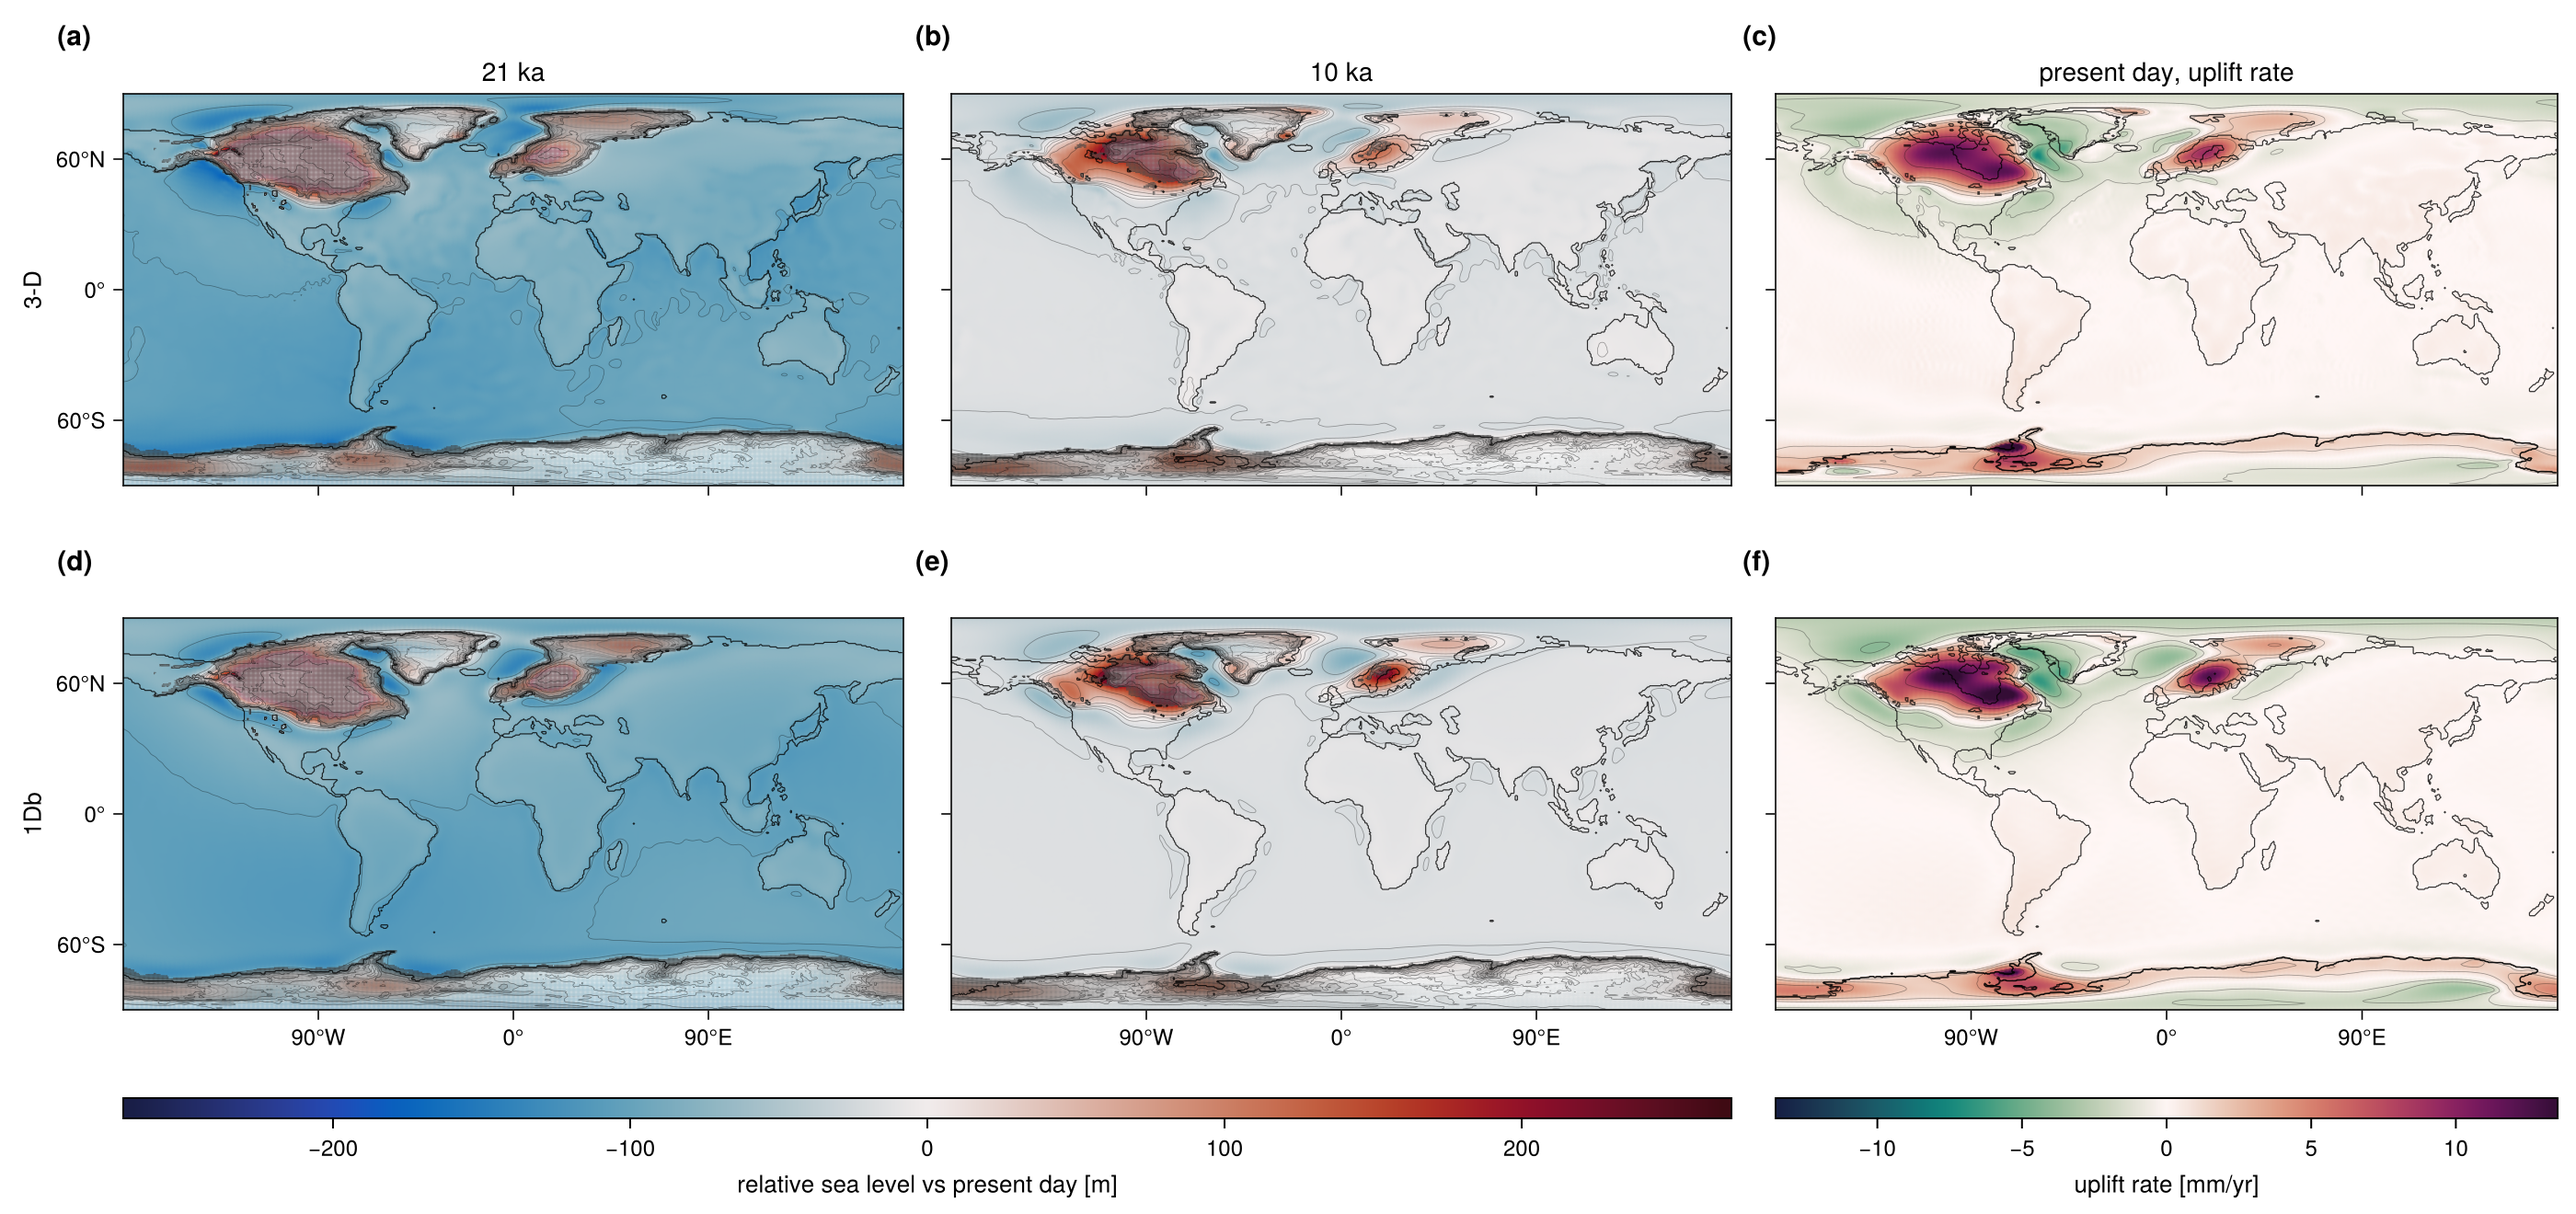
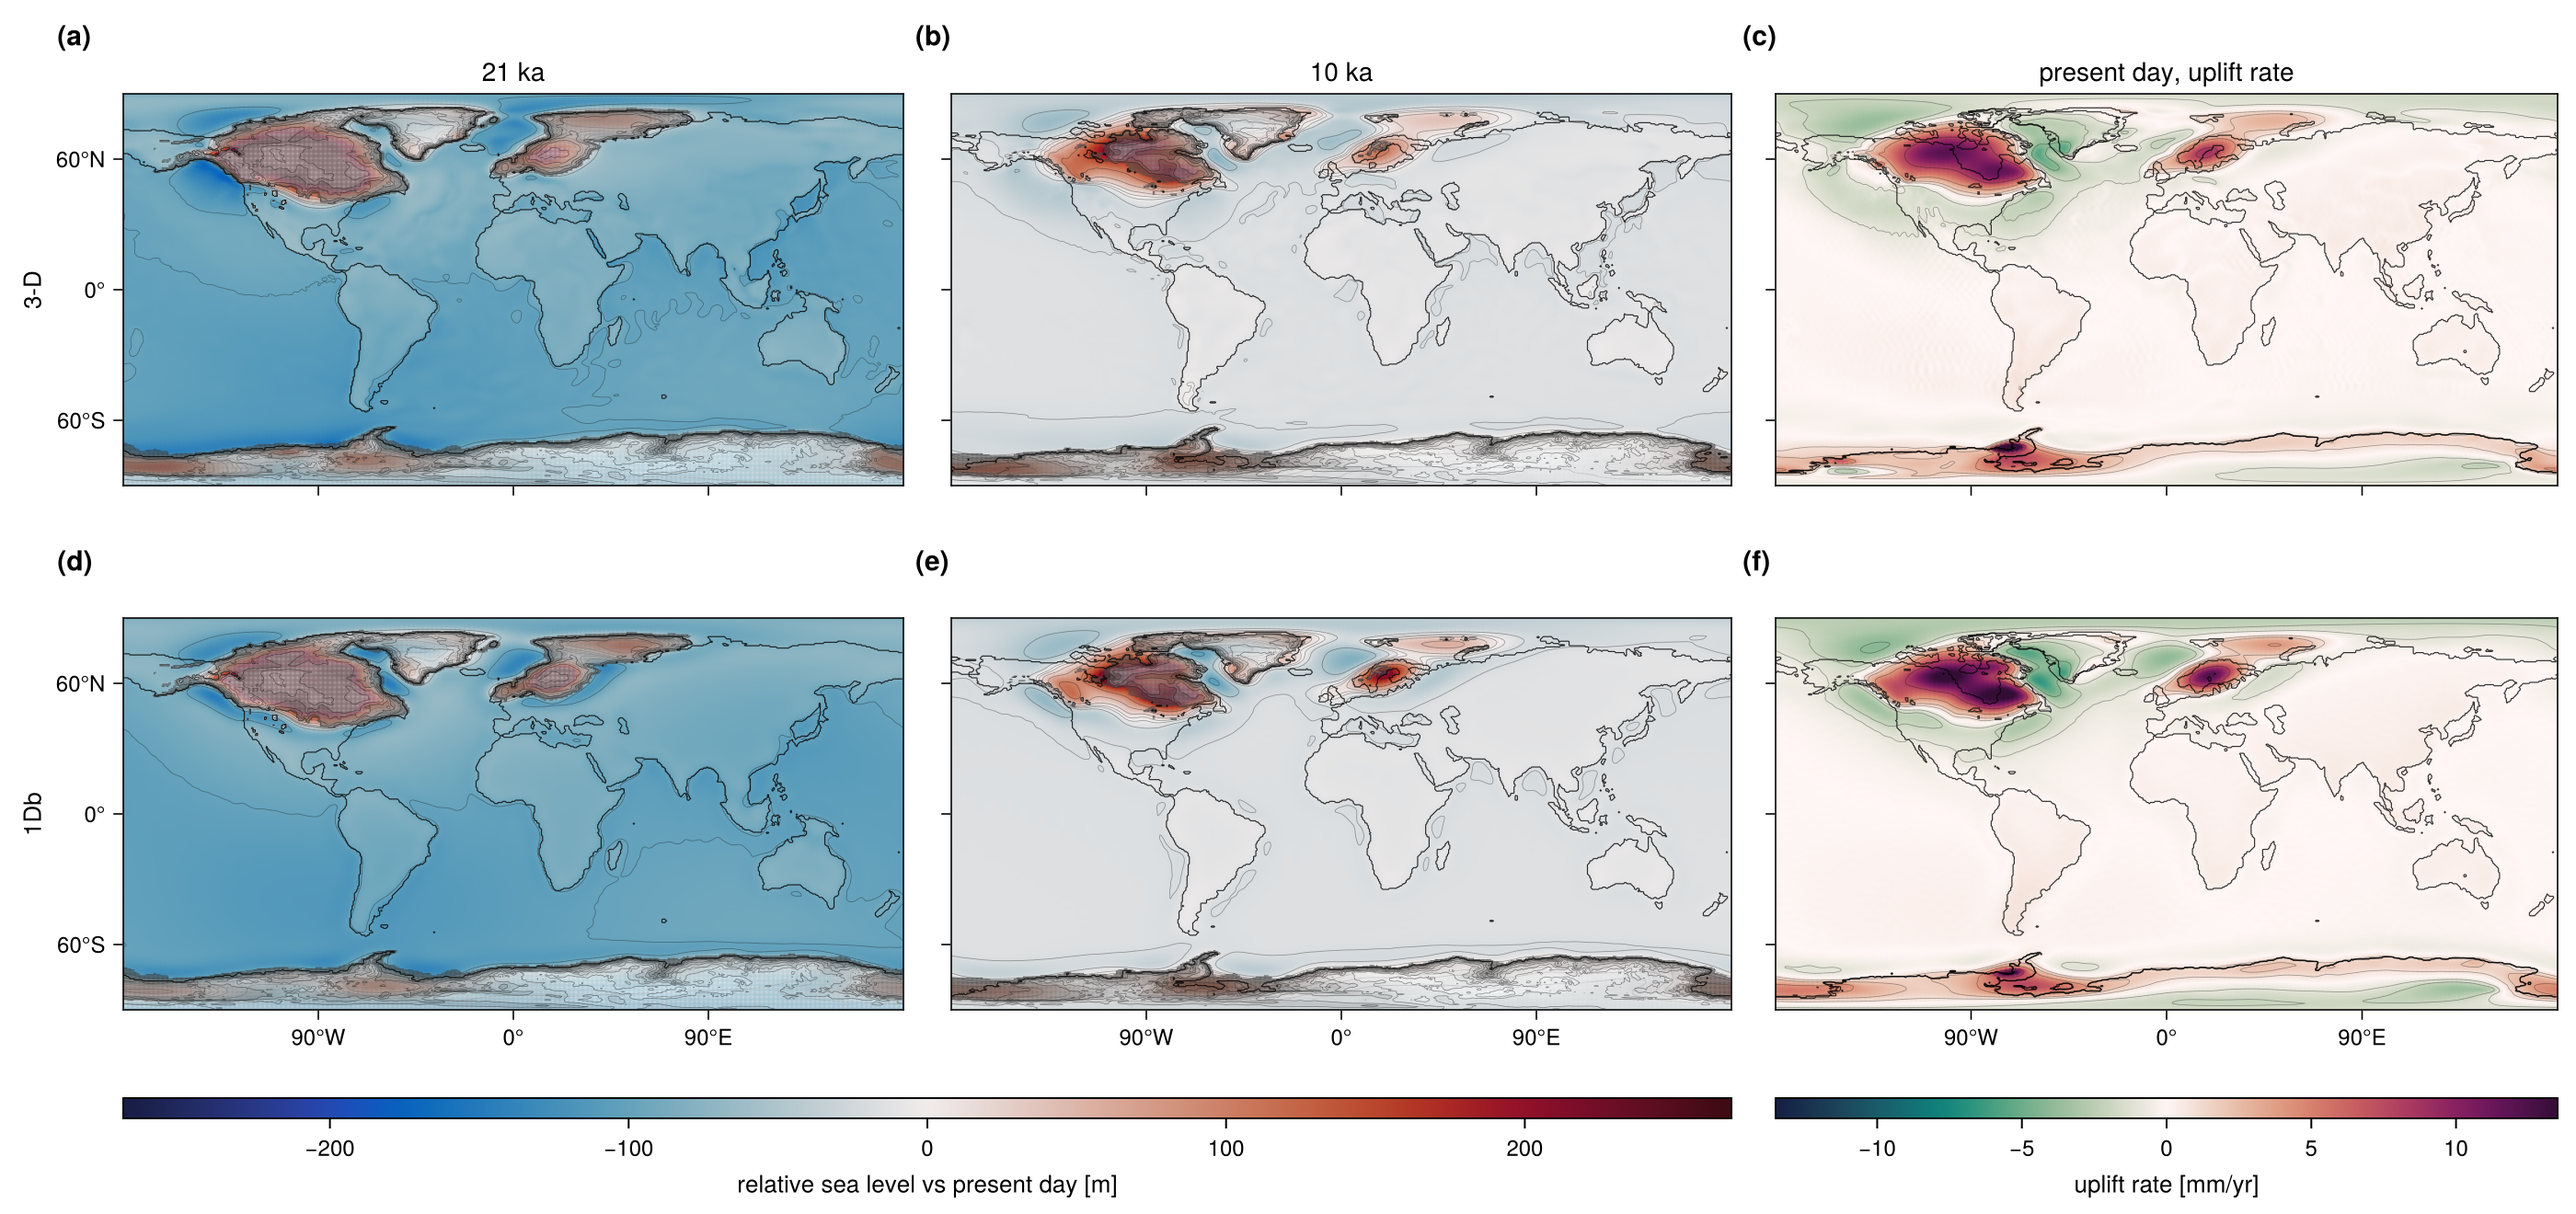
validation: tables and figures with V7 as the production 3-D row (reduce + analyse 48967618); RESULTS.md, stale results.toml keys dropped, figure notes no longer describe the retired Y21 pattern

diff --git a/validation/tables/v2v1.md b/validation/tables/v2v1.md
@@ -11,26 +11,26 @@ Both backends run behind the same driver on the same GLAC-1D forcing and the sam
 
 | time | rms [m] | max\|Δ\| [m] | 99th pct [m] | V2 signal max [m] | rms/signal | deg 0 [m] | \|deg 1\| [m] | rms after deg 0+1 |
 |---|---:|---:|---:|---:|---:|---:|---:|---:|
-| 21 ka | 5.138 | 87.664 | 18.016 | 463.3 | 1.11e-02 | 0.50 | 0.36 | 5.120 |
-| 14 ka | 4.618 | 91.394 | 16.772 | 427.4 | 1.08e-02 | 0.52 | 0.30 | 4.593 |
-| 8 ka | 2.131 | 32.929 | 8.019 | 185.0 | 1.15e-02 | 0.23 | 0.18 | 2.122 |
-| 2 ka | 0.382 | 6.012 | 1.494 | 45.8 | 8.35e-03 | 0.03 | 0.04 | 0.382 |
+| 21 ka | 2.597 | 59.962 | 6.625 | 431.9 | 6.01e-03 | 0.12 | 0.30 | 2.607 |
+| 14 ka | 2.251 | 56.244 | 5.769 | 400.0 | 5.63e-03 | 0.24 | 0.25 | 2.247 |
+| 8 ka | 1.028 | 16.345 | 3.004 | 178.6 | 5.75e-03 | 0.13 | 0.15 | 1.021 |
+| 2 ka | 0.171 | 2.691 | 0.577 | 43.8 | 3.89e-03 | 0.02 | 0.03 | 0.169 |
 
-**Present-day uplift rate**: rms **0.1832 mm/yr**, max **2.7464**, 99th pct **0.7140**, against a V2 signal max of 38.36 mm/yr (rms/signal 4.78e-03).
+**Present-day uplift rate**: rms **0.0956 mm/yr**, max **3.1933**, 99th pct **0.2961**, against a V2 signal max of 36.78 mm/yr (rms/signal 2.60e-03).
 
-**Barystatic sea level**: max \|V2 − V1\| = **0.367 m**; at present day 0.349 m.
+**Barystatic sea level**: max \|V2 − V1\| = **0.298 m**; at present day 0.292 m.
 
-**Ocean-mean rsl at present day**: V2 96.90 m, V1 96.55 m, difference 0.35 m.
+**Ocean-mean rsl at present day**: V2 96.84 m, V1 96.55 m, difference 0.29 m.
 
-**Peak of the residual series** (`deglac-v2v1-summary.png`, every 1 kyr): rms 5.29 m at 23 ka; rms/signal at most 1.4 % (6 ka).
+**Peak of the residual series** (`deglac-v2v1-summary.png`, every 1 kyr): rms 2.67 m at 23 ka; rms/signal at most 0.7 % (6 ka).
 
 | time | ocean-function cells differing | % of grid |
 |---|---:|---:|
-| 21 ka | 7 | 0.003 % |
-| 14 ka | 70 | 0.030 % |
-| 8 ka | 267 | 0.115 % |
-| 2 ka | 333 | 0.143 % |
-| 0 ka | 363 | 0.156 % |
+| 21 ka | 4 | 0.002 % |
+| 14 ka | 30 | 0.013 % |
+| 8 ka | 131 | 0.056 % |
+| 2 ka | 178 | 0.077 % |
+| 0 ka | 210 | 0.090 % |
 
 ## Pair `1db` — 1Db, the radial mean of that field
 
@@ -57,30 +57,30 @@ Both backends run behind the same driver on the same GLAC-1D forcing and the sam
 | 2 ka | 50 | 0.021 % |
 | 0 ka | 58 | 0.025 % |
 
-## Pair `3d_tor` — 3-D Bagge (2021) viscosity, with VILMA2's toroidal coupling
+## Pair `3d_notor` — 3-D Bagge (2021) viscosity, without VILMA2's toroidal coupling
 
 | time | rms [m] | max\|Δ\| [m] | 99th pct [m] | V2 signal max [m] | rms/signal | deg 0 [m] | \|deg 1\| [m] | rms after deg 0+1 |
 |---|---:|---:|---:|---:|---:|---:|---:|---:|
-| 21 ka | 2.597 | 59.962 | 6.625 | 431.9 | 6.01e-03 | 0.12 | 0.30 | 2.607 |
-| 14 ka | 2.251 | 56.244 | 5.769 | 400.0 | 5.63e-03 | 0.24 | 0.25 | 2.247 |
-| 8 ka | 1.028 | 16.345 | 3.004 | 178.6 | 5.75e-03 | 0.13 | 0.15 | 1.021 |
-| 2 ka | 0.171 | 2.691 | 0.577 | 43.8 | 3.89e-03 | 0.02 | 0.03 | 0.169 |
+| 21 ka | 5.138 | 87.664 | 18.016 | 463.3 | 1.11e-02 | 0.50 | 0.36 | 5.120 |
+| 14 ka | 4.618 | 91.394 | 16.772 | 427.4 | 1.08e-02 | 0.52 | 0.30 | 4.593 |
+| 8 ka | 2.131 | 32.929 | 8.019 | 185.0 | 1.15e-02 | 0.23 | 0.18 | 2.122 |
+| 2 ka | 0.382 | 6.012 | 1.494 | 45.8 | 8.35e-03 | 0.03 | 0.04 | 0.382 |
 
-**Present-day uplift rate**: rms **0.0956 mm/yr**, max **3.1933**, 99th pct **0.2961**, against a V2 signal max of 36.78 mm/yr (rms/signal 2.60e-03).
+**Present-day uplift rate**: rms **0.1832 mm/yr**, max **2.7464**, 99th pct **0.7140**, against a V2 signal max of 38.36 mm/yr (rms/signal 4.78e-03).
 
-**Barystatic sea level**: max \|V2 − V1\| = **0.298 m**; at present day 0.292 m.
+**Barystatic sea level**: max \|V2 − V1\| = **0.367 m**; at present day 0.349 m.
 
-**Ocean-mean rsl at present day**: V2 96.84 m, V1 96.55 m, difference 0.29 m.
+**Ocean-mean rsl at present day**: V2 96.90 m, V1 96.55 m, difference 0.35 m.
 
-**Peak of the residual series** (`deglac-v2v1-summary.png`, every 1 kyr): rms 2.67 m at 23 ka; rms/signal at most 0.7 % (6 ka).
+**Peak of the residual series** (`deglac-v2v1-summary.png`, every 1 kyr): rms 5.29 m at 23 ka; rms/signal at most 1.4 % (6 ka).
 
 | time | ocean-function cells differing | % of grid |
 |---|---:|---:|
-| 21 ka | 4 | 0.002 % |
-| 14 ka | 30 | 0.013 % |
-| 8 ka | 131 | 0.056 % |
-| 2 ka | 178 | 0.077 % |
-| 0 ka | 210 | 0.090 % |
+| 21 ka | 7 | 0.003 % |
+| 14 ka | 70 | 0.030 % |
+| 8 ka | 267 | 0.115 % |
+| 2 ka | 333 | 0.143 % |
+| 0 ka | 363 | 0.156 % |
 
 ## The degree-2, order-1 part of the residual at 21 ka
 
@@ -88,7 +88,7 @@ Area-weighted (Gauss quadrature) rms of V2 − V1 relative sea level at 21 ka, i
 
 | pair | rms [m] | Y21 part [m] | rms without Y21 [m] | largest other part [m] |
 |---|---:|---:|---:|---|
-| 3d | 4.08 | 0.50 | 4.05 | degree 6, order 2: 0.70 |
+| 3d | 2.18 | 0.49 | 2.12 | degree 5, order 2: 0.35 |
 | 1db | 0.59 | 0.37 | 0.45 | degree 0, order 0: 0.28 |
 
 Parts are projections on the real harmonics of the grid; the rms of everything above degree 8 is what the first and last columns leave.

diff --git a/validation/RESULTS.md b/validation/RESULTS.md
@@ -22,21 +22,31 @@ data: `data/published/` (untracked, on albedo under
 | V1 | 48966757 3-D (52:58), 48966759 1Db (13:27) | complete |
 | reduce + analyse | 48966942 (6:17) | all figures and tables |
 | T (V7) | 48966776 (1:09:28) | toroidal field on; reduce + analyse 48967141. See below and `tables/toroidal.md` |
+| reduce + analyse | 48967618 (7:10) | after c92d70a: V7 is the production 3-D row |
 
 Pass 2 agrees with pass 1 to the third printed digit (V2 − V1 rms at 21 ka
-5.138 against 5.141 m), so the comparison with 907bc74 below holds for both.
-The degree-2, order-1 part of V2 − V1 at 21 ka (`tables/v2v1.md`) is 0.50 m in
-3-D and 0.37 m in 1Db, against 7.74 m and 7.86 m at 907bc74: the rotation fixes
-of 304f4cb removed that pattern. What remains in 3-D (4.08 m area-weighted) has no
-dominant low-degree part: the largest part up to degree 8 is degree 6, order 2
-at 0.70 m.
+5.138 against 5.141 m without the toroidal field), so the comparison with 907bc74
+below holds for both.
 
-V7, the toroidal field of the 3-D elements (`l_toroidal`), against D-V2-3D
-(`tables/toroidal.md`): it changes relative sea level by up to 92 m (2.1 m rms)
-at 10 ka and present-day ocean-mean rsl by −0.06 m, leaves the budget closure at
-102.8 %, and halves the V2 − V1 3-D residual: 4.08 → 2.18 m rms at 21 ka,
-2.30 → 1.22 m at 10 ka, 0.128 → 0.076 mm/yr in present-day uplift rate. It costs
-×1.47 in wall time (2.67 against 1.82 min per kyr). Map: `deglac-toroidal-10ka.png`.
+**The production 3-D row is V7** (since c92d70a): `D-V2-3D.l170.tor`, the toroidal
+field of the 3-D elements on, the model default since visc-shift 0d1eac9.
+`D-V2-3D.l170.fe` (toroidal off, the default when it was run) is its control. The
+1Db runs have no laterally 3-D element (`visc3d split: 0 of 220`), so `l_toroidal`
+has nothing to act on there; the V1 runs are unchanged. The run ids are named once,
+in `analysis/Published.jl`.
+
+V2 − V1 with the 3-D viscosity (`tables/v2v1.md`): rms 2.60 m at 21 ka on the grid,
+2.18 m area-weighted (5.14 and 4.08 m without the toroidal field), at most 0.7 % of
+the signal; 0.096 mm/yr in present-day uplift rate (0.183). The degree-2, order-1
+part at 21 ka is 0.49 m in 3-D and 0.37 m in 1Db, against 7.74 m and 7.86 m at
+907bc74: the rotation fixes of 304f4cb removed that pattern. What remains in 3-D has
+no dominant low-degree part: the largest part up to degree 8 is degree 5, order 2
+at 0.35 m. 1Db: 0.63 m at 21 ka.
+
+The toroidal field itself (`tables/toroidal.md`) changes relative sea level by up to
+92 m (2.1 m rms) at 10 ka and present-day ocean-mean rsl by −0.06 m, leaves the
+budget closure at 102.8 %, and costs ×1.47 in wall time (2.67 against 1.82 min per
+kyr). Map: `deglac-toroidal-10ka.png`.
 
 ## Pass 1 — model 0278975, albedo, 2026-11-11
 

diff --git a/validation/tables/blockD.md b/validation/tables/blockD.md
@@ -6,7 +6,7 @@ Generated by `analysis/run_blockD_diags.jl`. GLAC-1D, 26 ka → present at 100 y
 
 | run | structure | ℓmax | steps | bsl at 21 ka [m] | bsl at present [m] |
 |---|---|---:|---:|---:|---:|
-| `D-V2-3D.l170.fe` | 3-D | 170 | 261 | 1.33 | 96.90 |
+| `D-V2-3D.l170.tor` | 3-D | 170 | 261 | 1.33 | 96.84 |
 | `D-V2-1Db.l170.fe` | 1Db | 170 | 261 | 1.33 | 97.06 |
 | `D-V1-3D.l170.fe` | 3-D | 170 | 261 | 1.36 | 96.55 |
 | `D-V1-1Db.l170.fe` | 1Db | 170 | 261 | 1.36 | 96.83 |
@@ -17,7 +17,7 @@ Delivered ocean-mean relative sea level at present day against the above-flotati
 
 | run | delivered [m] | above-flotation target [m] | delivered/target |
 |---|---:|---:|---:|
-| `D-V2-3D.l170.fe` | 96.90 | 94.21 | 102.9 % |
+| `D-V2-3D.l170.tor` | 96.84 | 94.19 | 102.8 % |
 | `D-V2-1Db.l170.fe` | 97.06 | 94.08 | 103.2 % |
 
 ## 3-D minus 1Db — the lateral-viscosity signal
@@ -28,26 +28,26 @@ The 0 ka row is omitted on purpose: `rsl_anomaly` is measured against each run's
 
 | time | rms [m] | max\|Δ\| [m] | 99th pct \|Δ\| [m] | signal max\|rsl\| [m] | rms/signal |
 |---|---:|---:|---:|---:|---:|
-| 21 ka | 17.248 | 248.905 | 75.342 | 463.3 | 3.72e-02 |
-| 14 ka | 15.042 | 218.463 | 65.465 | 427.4 | 3.52e-02 |
-| 8 ka | 6.195 | 66.087 | 27.141 | 185.0 | 3.35e-02 |
+| 21 ka | 16.442 | 221.137 | 68.771 | 431.9 | 3.81e-02 |
+| 14 ka | 14.359 | 201.983 | 59.637 | 400.0 | 3.59e-02 |
+| 8 ka | 6.242 | 70.086 | 26.515 | 178.6 | 3.50e-02 |
 
-Present-day uplift rate: rms **0.6334 mm/yr**, max **24.2212**, 99th pct **2.3928**, against a signal max of 38.36 mm/yr.
+Present-day uplift rate: rms **0.6233 mm/yr**, max **22.6519**, 99th pct **2.3588**, against a signal max of 36.78 mm/yr.
 
-Barystatic sea level: max \|3-D − 1Db\| = **0.158 m** over the run.
+Barystatic sea level: max \|3-D − 1Db\| = **0.215 m** over the run.
 
 ### Ocean-function mismatch
 
 | time | cells differing | % of grid |
 |---|---:|---:|
-| 21 ka | 44 | 0.019 % |
-| 14 ka | 248 | 0.107 % |
-| 8 ka | 1043 | 0.448 % |
-| 0 ka | 1170 | 0.503 % |
+| 21 ka | 35 | 0.015 % |
+| 14 ka | 230 | 0.099 % |
+| 8 ka | 981 | 0.422 % |
+| 0 ka | 1117 | 0.480 % |
 
 ## Polar motion
 
-* `D-V2-3D.l170.fe` — m₁ spans -2.01e-04 … +2.26e-04, m₂ spans -2.08e-03 … +1.34e-04 (dimensionless).
+* `D-V2-3D.l170.tor` — m₁ spans -2.02e-04 … +2.25e-04, m₂ spans -2.08e-03 … +1.34e-04 (dimensionless).
 * `D-V2-1Db.l170.fe` — m₁ spans -2.01e-04 … +2.20e-04, m₂ spans -2.09e-03 … +1.34e-04 (dimensionless).
 
 The VILMA1 backend does not write the rotation diagnostic, so m₁ and m₂ are VILMA2 only and the two codes are not compared on polar motion.

diff --git a/validation/tables/toroidal.md b/validation/tables/toroidal.md
@@ -1,6 +1,6 @@
 # V7 — the toroidal field in the 3-D deglaciation
 
-Generated by `analysis/run_toroidal.jl` from `data/published/blockD/`. `D-V2-3D.l170.tor` carries the toroidal field of the laterally 3-D elements (`l_toroidal = .true.`); `D-V2-3D.l170.fe` is the same run without it (same model head, LGM reference, ℓmax 170 and namelist but for that key). rms is area-weighted.
+Generated by `analysis/run_toroidal.jl` from `data/published/blockD/`. `D-V2-3D.l170.tor`, the production 3-D run, carries the toroidal field of the laterally 3-D elements (`l_toroidal = .true.`, the model default); `D-V2-3D.l170.fe` is the same run without it, the control (same model head, LGM reference, ℓmax 170 and namelist but for that key). rms is area-weighted.
 
 ## Relative sea level, tor − control
 
